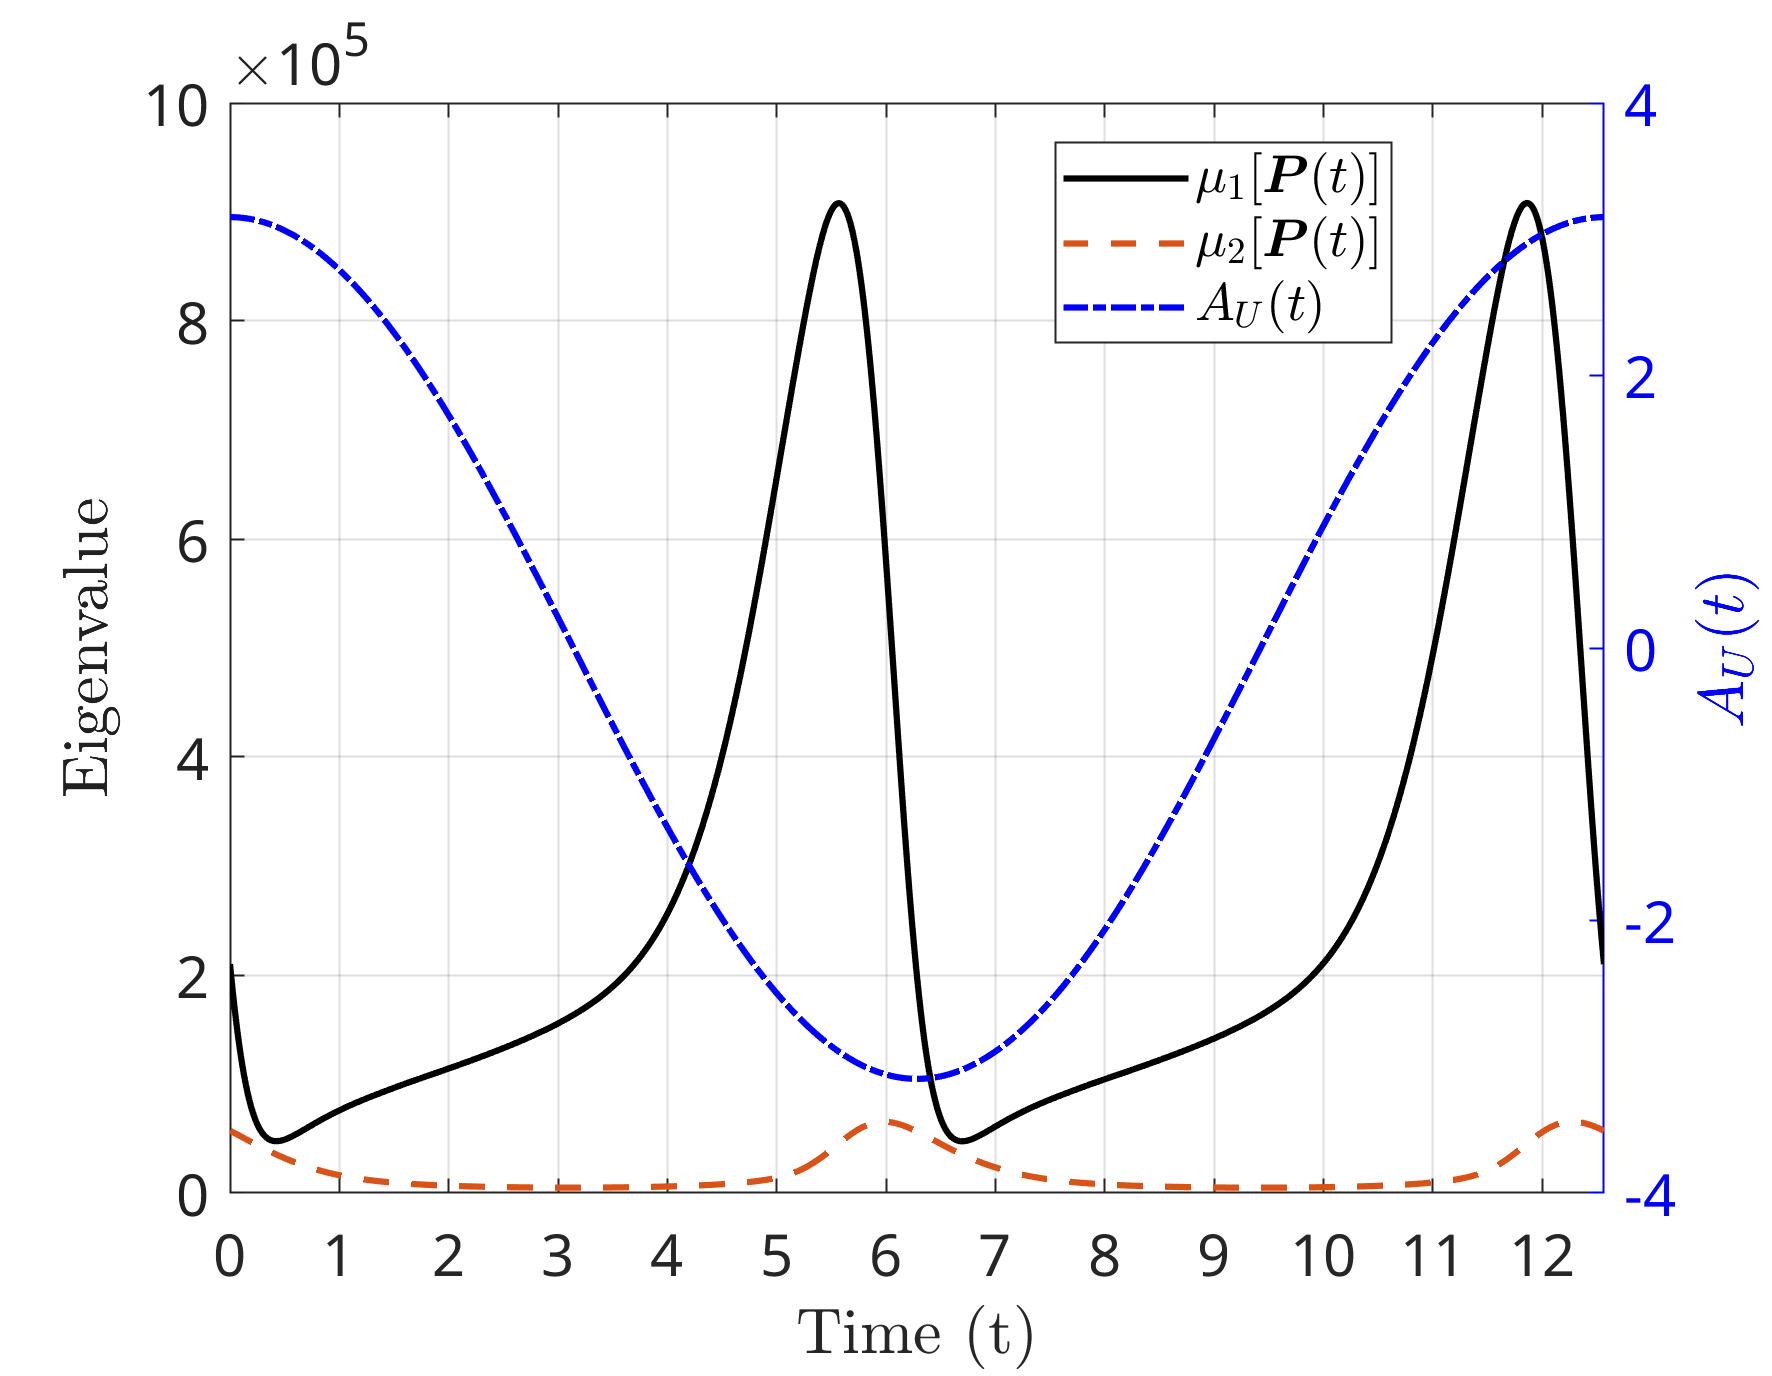
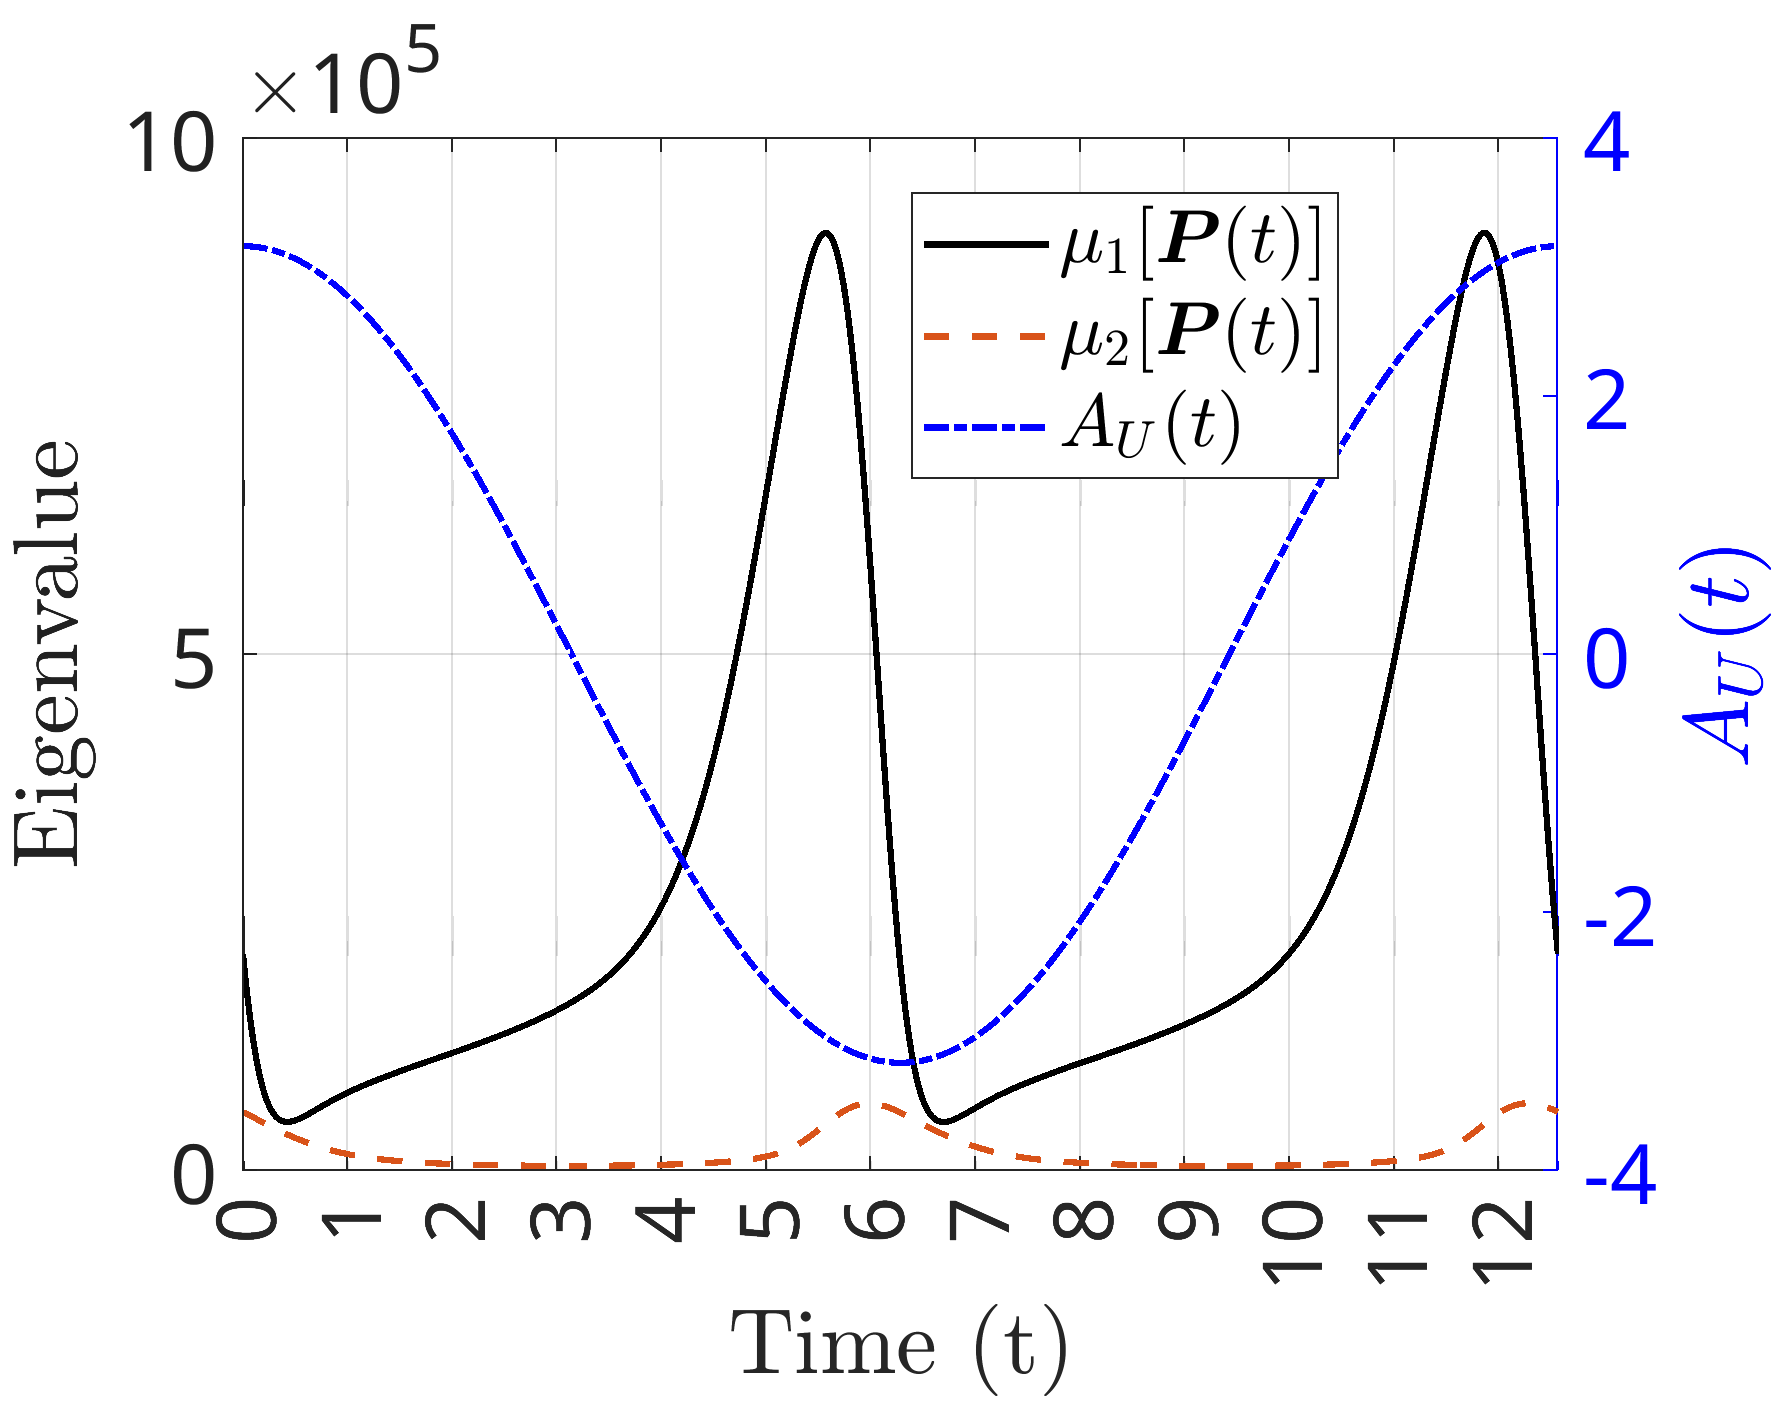
Increase font size of figures

diff --git a/experiments/Figure5.m b/experiments/Figure5.m
@@ -45,7 +45,8 @@ fig1 = figure;
 lineStyles = {'b-', 'r--', 'k-', 'm--'};   % 'solid' → '-', '..' → ':'
 
 % Subplot 1: Eigenvector components
-set(gca, 'FontSize', 14);
+font_size = 20;
+set(gca, 'FontSize', font_size);
 grid on;
 for r = 1:n_vars-1
     hold on;
@@ -67,9 +68,8 @@ ylabel('Eigenvector Component','Interpreter','latex')
 print(fig1, 'Figure5.png', '-dpng', '-r300');
 
 % Subplot 2: Eigenvalues
-% Subplot 2: Eigenvalues
 fig2 = figure;
-set(gca, 'FontSize', 14);
+set(gca, 'FontSize', font_size);
 
 % First eigenvalue line in black
 plot(tvals, D(1,:), 'k-', 'LineWidth', 1.5);
@@ -92,14 +92,20 @@ fparams = experiment1_common();
 
 yyaxis right
 ax = gca;
-set(ax, 'FontSize', 14);
+set(ax, 'FontSize', font_size);
 ax.YColor = "blue";
 plot(tvals, fparams.Au(tvals), '-.', 'LineWidth', 1.5, 'Color', ax.YColor);
 ylabel('$A_U (t)$','Interpreter','latex')
 
 %legend({'$\lambda_1$','','$\lambda_3$','$\lambda_4$','$\lambda_5$','$A_U(t)$'}, ...       'Interpreter','latex','Location','best')
-legend({'$\lambda_1$', '$\lambda_2$', '$A_U(t)$'}, ...
-       'Interpreter','latex','Location','best')
+lgd2 = legend({'$\mu_1[{\mbox{\boldmath $P$}(t)}]$', ...
+        '$\mu_2[{\mbox{\boldmath $P$}(t)}]$', ...
+         '$A_U(t)$',         }, ...
+       'Interpreter','latex','Location','northeast')
 
+pos2 = lgd2.Position;     % [x y width height]
+pos2(1) = pos2(1) - 0.10;
+lgd2.Position = pos2;
 
-%print(fig2, 'Figure5.png', '-dpng', '-r300', '-loose');
+print(fig1, 'Figure5_eigenvec.png', '-dpng', '-r300', '-loose');
+print(fig2, 'Figure5_eigenval.png', '-dpng', '-r300', '-loose');
